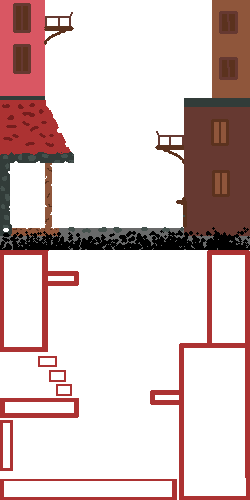
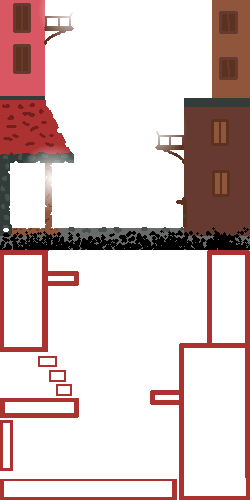
Added basic lights

Changed region(s): [[0.112, 0.27, 0.308, 0.42], [0.168, 0.0, 0.308, 0.09], [0.616, 0.27, 0.728, 0.3]]

diff --git a/scenes/game.py b/scenes/game.py
@@ -48,13 +48,6 @@ class Game(Scene):
 			(-self.camera[0], -self.camera[1])
 		)
 
-		# r = pygame.Rect(0, 150, 300, 20)
-		# r2 = pygame.Rect(0, 68, 100, 10)
-		# r3 = pygame.Rect(200, 0, 20, 200)
-		# pygame.draw.rect(self.game_surface, (255, 0, 0), [r.x - self.camera[0], r.y - self.camera[1], r.w, r.h])
-		# pygame.draw.rect(self.game_surface, (255, 0, 0), [r2.x - self.camera[0], r2.y - self.camera[1], r2.w, r2.h])
-		# pygame.draw.rect(self.game_surface, (255, 0, 0), [r3.x - self.camera[0], r3.y - self.camera[1], r3.w, r3.h])
-
 		# for r in self.map["rects"]:
 		# 	pygame.draw.rect(self.game_surface, (255, 0, 0), [r.x - self.camera[0], r.y - self.camera[1], r.w, r.h])
 
@@ -66,6 +59,7 @@ class Game(Scene):
 				self.game_surface,
 				(self.surface.get_width(), self.surface.get_height())
 			),
-			(0, 0)
+			(0, 0),
+			special_flags=pygame.BLEND_RGBA_MULT
 		)
 

diff --git a/main.py b/main.py
@@ -10,7 +10,7 @@ class Main:
 		self.height = height
 		self.fps    = fps
 
-		self.screen = pygame.display.set_mode((self.width, self.height))
+		self.screen = pygame.display.set_mode((self.width, self.height), pygame.SRCALPHA)
 
 		self.running = True
 		self.clock = pygame.time.Clock()
@@ -31,7 +31,7 @@ class Main:
 			dt *= self.fps
 			last_time = time.time()
 
-			self.screen.fill((0, 0, 0))
+			self.screen.fill((90, 90, 90))
 
 			self.poll_events()
 
